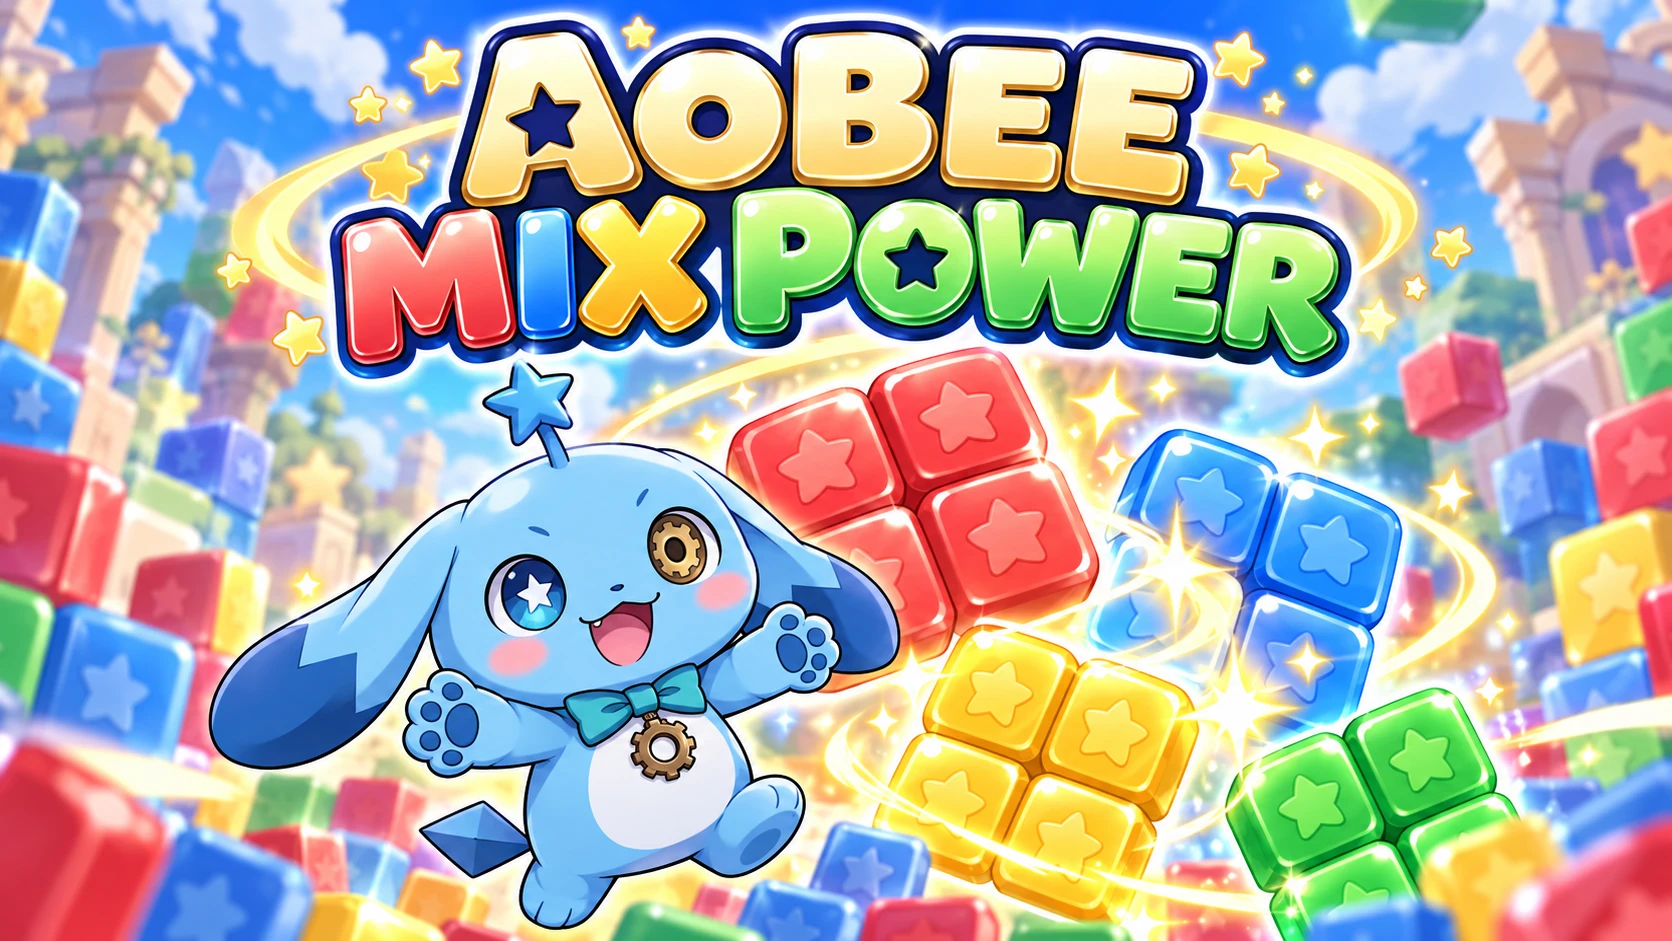
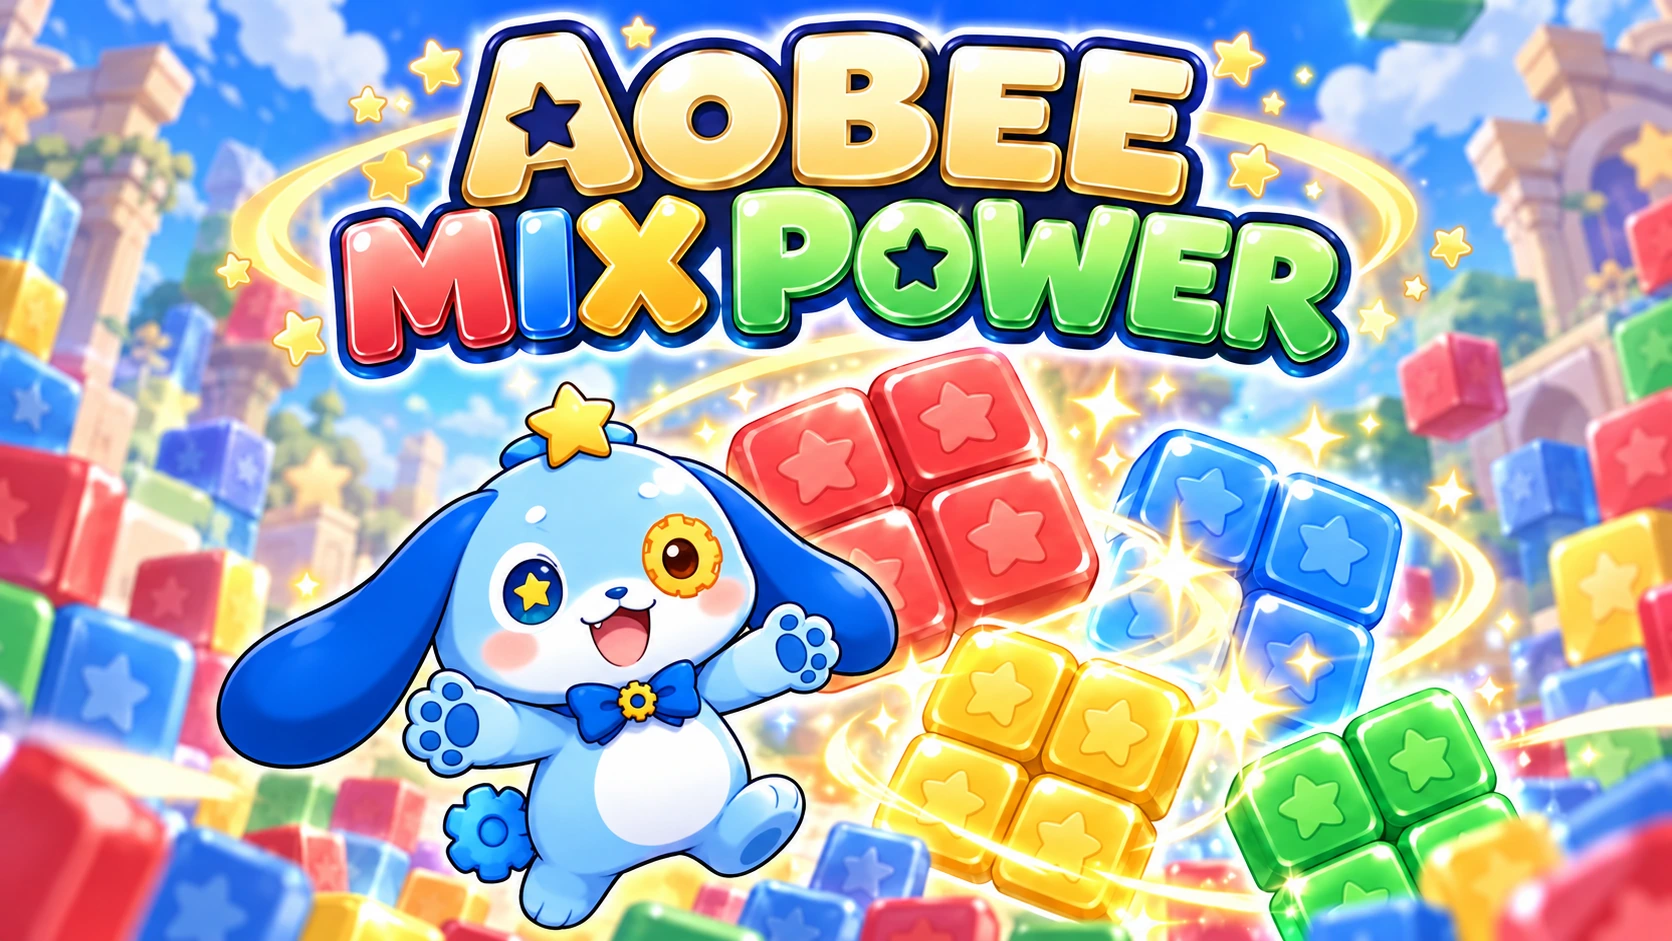
Unify twelve portal covers with official character design

diff --git a/index.html b/index.html
@@ -1,5 +1,5 @@
 <!doctype html>
-<html lang="ja"><head><meta charset="utf-8"><meta name="viewport" content="width=device-width,initial-scale=1"><meta name="theme-color" content="#1267ce"><meta name="description" content="あおびーと遊ぶ、15の小さな冒険。お気に入りのブラウザゲームを見つけよう。"><title>あおびーポータル｜あそびの星へ、ようこそ。</title><link rel="icon" href="assets/characters/aobee-front-v1.png"><link rel="stylesheet" href="style.css?v=preview4"><script src="portal.js?v=yabou110c-temple32-puzzle16-ui50-golf35" defer></script><script defer src="assets/character-identity.js?v=2"></script><link rel="stylesheet" href="assets/portal-preview.css?v=iphone1"><link rel="stylesheet" href="portal-refresh.css?v=3"></head>
+<html lang="ja"><head><meta charset="utf-8"><meta name="viewport" content="width=device-width,initial-scale=1"><meta name="theme-color" content="#1267ce"><meta name="description" content="あおびーと遊ぶ、15の小さな冒険。お気に入りのブラウザゲームを見つけよう。"><title>あおびーポータル｜あそびの星へ、ようこそ。</title><link rel="icon" href="assets/characters/aobee-front-v1.png"><link rel="stylesheet" href="style.css?v=preview4"><script src="portal.js?v=yabou110c-temple32-puzzle16-ui50-golf35-covers20261030" defer></script><script defer src="assets/character-identity.js?v=2"></script><link rel="stylesheet" href="assets/portal-preview.css?v=iphone1"><link rel="stylesheet" href="portal-refresh.css?v=3"></head>
 <body><a class="skip" href="#games">ゲームを選ぶ</a><header><a class="brand" href="./"><img src="assets/characters/aobee-front-v1.png" alt="">あおびー<span>PORTAL</span></a><a class="nav" href="#games">ゲームをさがす ↗</a></header>
 <main><section class="hero"><div class="hero-copy"><p class="eyebrow">HELLO, PLAYFUL DAYS!</p><h1>今日は、どの<br>あおびーで<em>遊ぶ？</em></h1><p class="intro">走って、釣って、ときどき世界を救って。<br>きみの「やってみたい！」が、ここにある。</p><a class="primary" href="#first-play">まずは、ひと遊び <span aria-hidden="true">↓</span></a><a class="hero-secondary" href="#games">15のゲームを全部見る ↗</a><p class="small">ダウンロード不要 · ブラウザでプレイ</p></div><div class="hero-art"><div class="orbit"></div><span class="art-label">きょうも、あそび日和。</span><img src="assets/characters/aobee-front-v1.png" alt="星の目と青い耳のあおびーがお出迎え"><a class="greeting about-link" href="#about-aobee"><b>ぼく、あおびー！</b><small>あおびーって？ ↓</small></a></div><div class="hero-bottom" aria-hidden="true">ONE LITTLE AOBEE. SO MANY WAYS TO PLAY.</div></section><section class="about-aobee" id="about-aobee" aria-labelledby="about-title"><div class="about-portrait"><img src="assets/characters/aobee-front-v1.png" alt="あおびー" width="240" height="240" loading="lazy"></div><div class="about-copy"><p class="eyebrow">MEET AOBEE</p><h2 id="about-title">あおびーって？</h2><blockquote><p><span class="intro-hello">「ぼく、あおびー！</span><br>おもしろそうなことなら、なんでもやってみたいんだ。<br><strong class="intro-again">失敗したって、もういっかい！</strong><br>釣りも、冒険も、レースだって——<br><strong class="intro-promise">あおびーに任せてよ！」</strong></p></blockquote><a class="about-play" href="#first-play">あおびーと遊ぶ <span aria-hidden="true">↓</span></a></div></section><section class="first-play" id="first-play"><div class="section-head"><div><p class="eyebrow">YOUR FIRST PLAY</p><h2>迷ったら、このひと遊び。</h2></div><p class="section-note">気になる一枚から、はじめよう。</p></div><div class="picks"><a class="pick pick-run" href="games/hashire_aobee_v3.2.html" target="_blank" rel="noopener"><div class="pick-image"><img src="assets/previews/runner.png" alt="走れ！あおびーのプレイ画面"><span class="pick-badge">まずはこれ！</span></div><div class="pick-copy"><span class="pick-kicker">タップで、ぴょん！</span><h3>走れ！あおびー</h3><p>跳んで、集めて、自己ベスト。次こそ、もうちょっと先まで。</p><span class="pick-cta">走ってみる ↗ <small>別タブで開く</small></span></div></a><a class="pick pick-fish" href="games/aobee_pico_fishing_v68_dual_guide.html" target="_blank" rel="noopener"><div class="pick-image"><img src="assets/previews/fishing.webp" alt="ピコピコフィッシングのプレイ画面"><span class="pick-badge">大物、ねらってみる？</span></div><div class="pick-copy"><span class="pick-kicker">その一匹に、夢中。</span><h3>ピコピコフィッシング</h3><p>魚の動きを読んで、釣り上げよう。図鑑を埋める楽しみも。</p><span class="pick-cta">釣りに行く ↗ <small>別タブで開く</small></span></div></a><a class="pick pick-farm" href="games/aobee_farm_v48_soil_water.html?v=ui49" target="_blank" rel="noopener"><div class="pick-image"><img src="assets/previews/farm.png" alt="あおびー牧場のプレイ画面"><span class="pick-badge">のんびりしたい日に</span></div><div class="pick-copy"><span class="pick-kicker">育てる時間も、ごほうび。</span><h3>あおびー牧場</h3><p>畑と、動物と、町のみんな。自分のペースで過ごす牧場時間。</p><span class="pick-cta">牧場へ行く ↗ <small>別タブで開く</small></span></div></a></div></section><nav class="mood-nav" aria-label="気分でゲームを選ぶ"><div><p class="eyebrow">WHAT'S YOUR MOOD?</p><h2>今、どんな気分？</h2></div><a href="#first-play"><b>サクッと遊びたい</b><span>おすすめの3本から ↗</span></a><a href="games/rpg/index.html" target="_blank" rel="noopener"><b>じっくりハマりたい</b><span>星と記憶をめぐるRPGへ ↗<small>別タブで開く</small></span></a><a href="#games"><b>いろいろ見てみたい</b><span>15のゲームを見つけよう ↓</span></a></nav><section id="games" class="library"><div class="section-head"><div><p class="eyebrow">PICK YOUR NEXT ADVENTURE</p><h2>次は、何して遊ぼう？</h2></div><label class="search"><span>検索</span><input id="search" type="search" placeholder="ゲーム名でさがす" autocomplete="off"></label></div><div id="filters" class="filters" role="group" aria-label="ジャンルで絞り込み"></div><p id="count" class="count" role="status" aria-live="polite"></p><div id="game-list" class="game-list"></div><p id="empty" hidden>見つからなかったよ。別の言葉でさがしてみてね。</p><noscript>ゲーム一覧の表示にはJavaScriptを有効にしてください。</noscript></section>
 <section class="guide"><h2>あそぶ前に、ちょっとだけ。</h2><p>ゲームは別のタブで開きます。音が出る作品もあるので、音量を確かめてから遊んでね。操作方法は各ゲームの案内を見てね。</p><p>セーブ対応作品の記録は、使っているブラウザや公開先によって別になります。大切な記録は、ゲームに書き出し機能があれば保存しておこう。</p></section></main><footer><a class="brand" href="./">あおびー<span>PORTAL</span></a><p>ちいさなあおびー。ひろがるあそび。</p><a href="#games">ゲーム棚へ ↑</a></footer></body></html>

diff --git a/HANDOVER-20261030-COVER-IDENTITY.md b/HANDOVER-20261030-COVER-IDENTITY.md
@@ -1,0 +1,33 @@
+# カバー12枚の公式デザイン統一 / 玲奈からMuseへの引き継ぎ
+
+## 変更と理由
+
+公式決定（2026-10-29）とCOVER-REDESIGN-20261029.mdに基づき、対象12枚を内蔵image_genで編集。
+背景・構図・小物・ロゴ表記は元カバーを参照し、あおびーの黄色い直付けの星、青い歯車の尻尾、公式の目、濃青の垂れ耳、青い蝶ネクタイ中央の黄色い歯車へ統一した。
+GRAND PRIXはわるびーの星を直付けの欠けたマゼンタ色にし、結晶の尻尾を歯車形に変更。あおびーは維持する指定で編集した。
+生成編集のため、対象外領域の画素単位の一致を保証するものではない。
+
+対象: adventure / farm / rpg / race-v2 / mix / quiz / rhythm / shooter / guard / runner / fishing / puzzle。
+各WebP・JPGの24ファイル、全1672×941。牧場は旧1672×940から統一。
+
+portal.jsでこの12枚のみキャッシュ識別子をofficial20261030に更新し、index.htmlのportal.js読込識別子にもcovers20261030を追記。
+神殿・群星絵巻・ゴルフのカバーとキャッシュ識別子は維持。
+
+## 検証
+
+- 全12枚の生成出力を目視確認。GRAND PRIXの欠けた星は追加修正後の出力を採用候補とした。
+- 全24ファイルを再読込し、形式と1672×941の寸法を確認。
+- headless Edgeでローカルポータルを1440×1000、390×844で確認。
+- 両幅とも15枚読込成功、対象12枚に新しい識別子、JPGフォールバック全件読込成功、JavaScript例外なし、横スクロールなし。
+- portal.js構文チェック、git diff --check通過。
+
+## 触っていないもの
+
+ゲーム本体・ゲームロジック・バランス・セーブキー、character-identity、manifestおよびbuilder、旧世代race/yabouカバー、履歴文書。
+
+## 制作物と残確認
+
+制作原本、プロンプト、比較一覧、エンコード報告、表示検証記録は作業フォルダーのoutput/cover-redesign-20261030/に保管。
+作業ブランチ: codex/cover-redesign-20261030。開始点: 76bd409。
+ユーザーの採用承認、リモートへのpush・PR作成・mainへのマージ、本番表示、Muse側の検証は未実施。
+本資料は制作側の確認記録であり、採用承認を意味しない。
